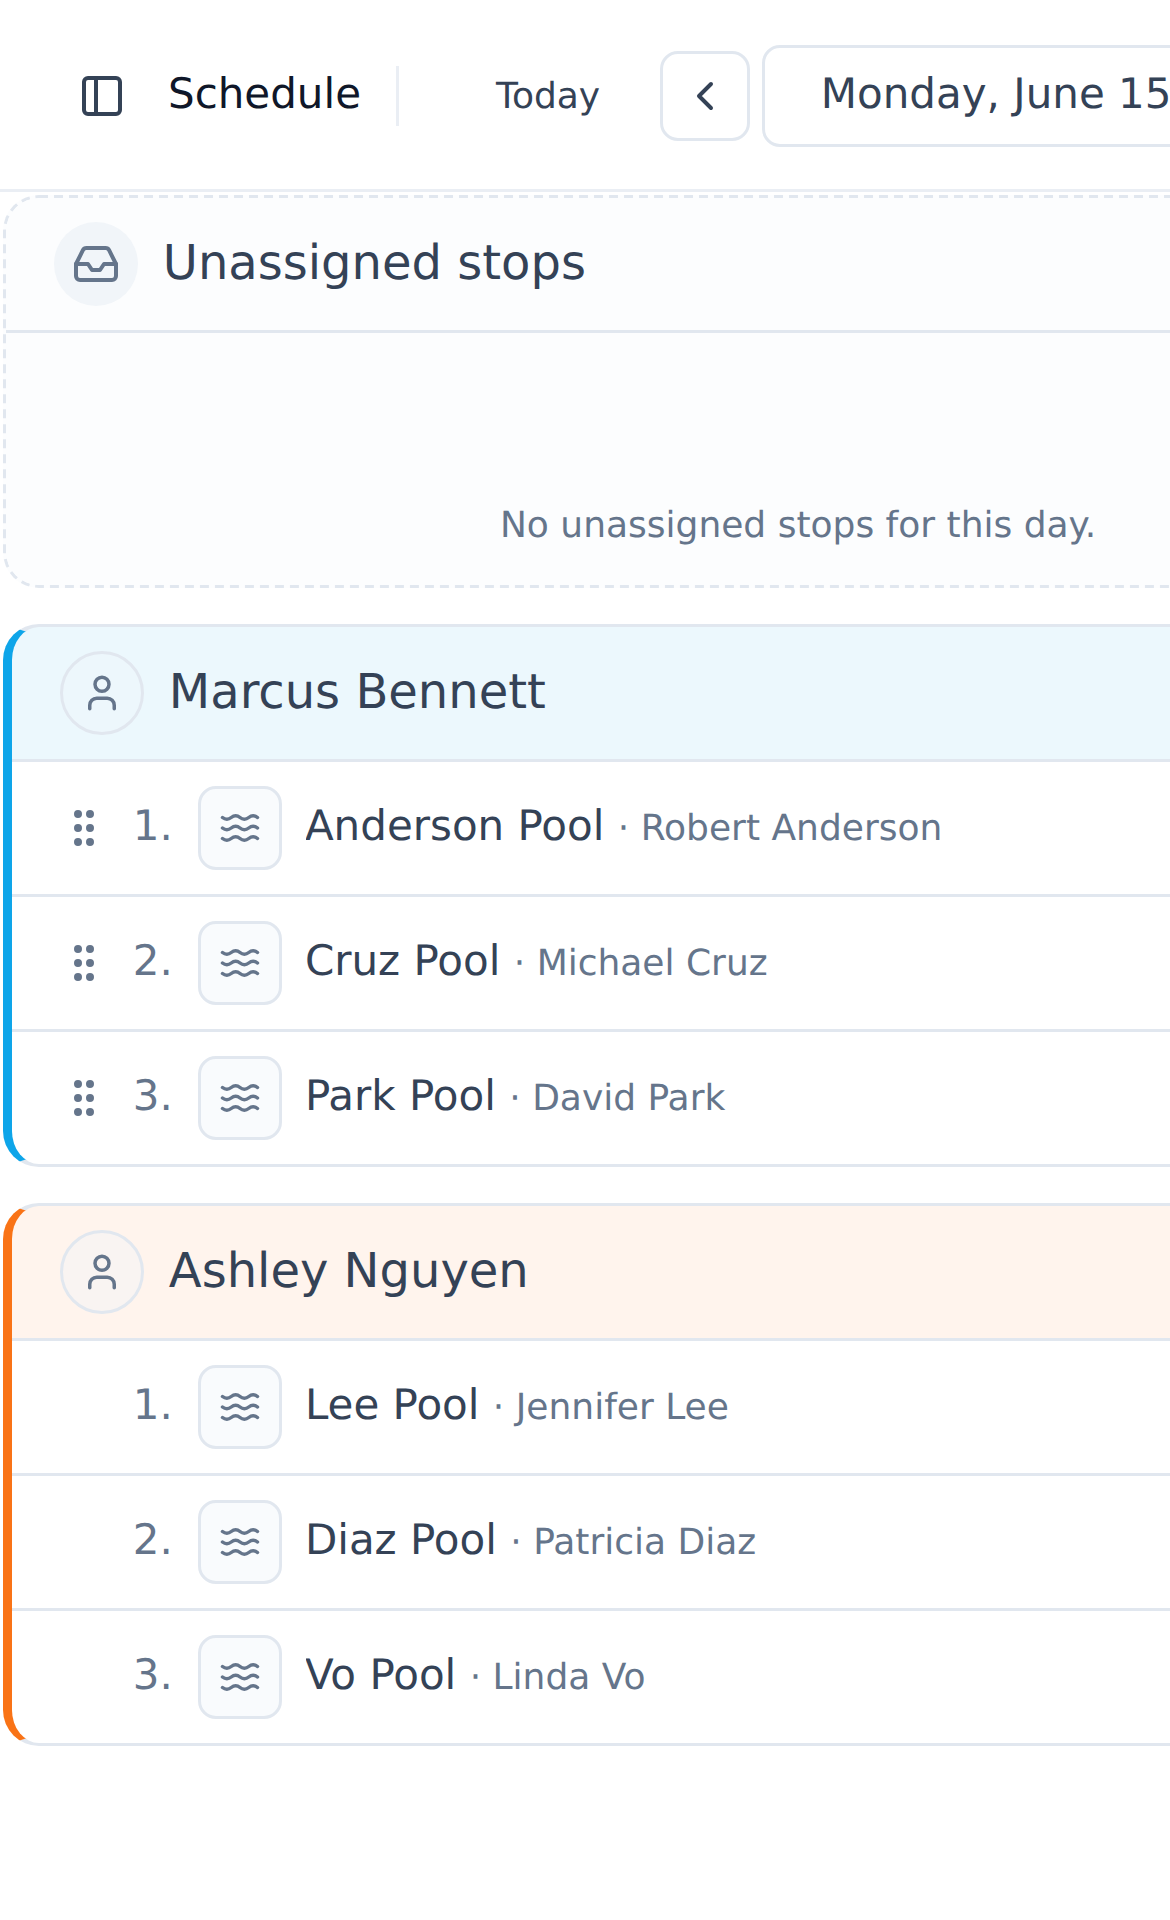
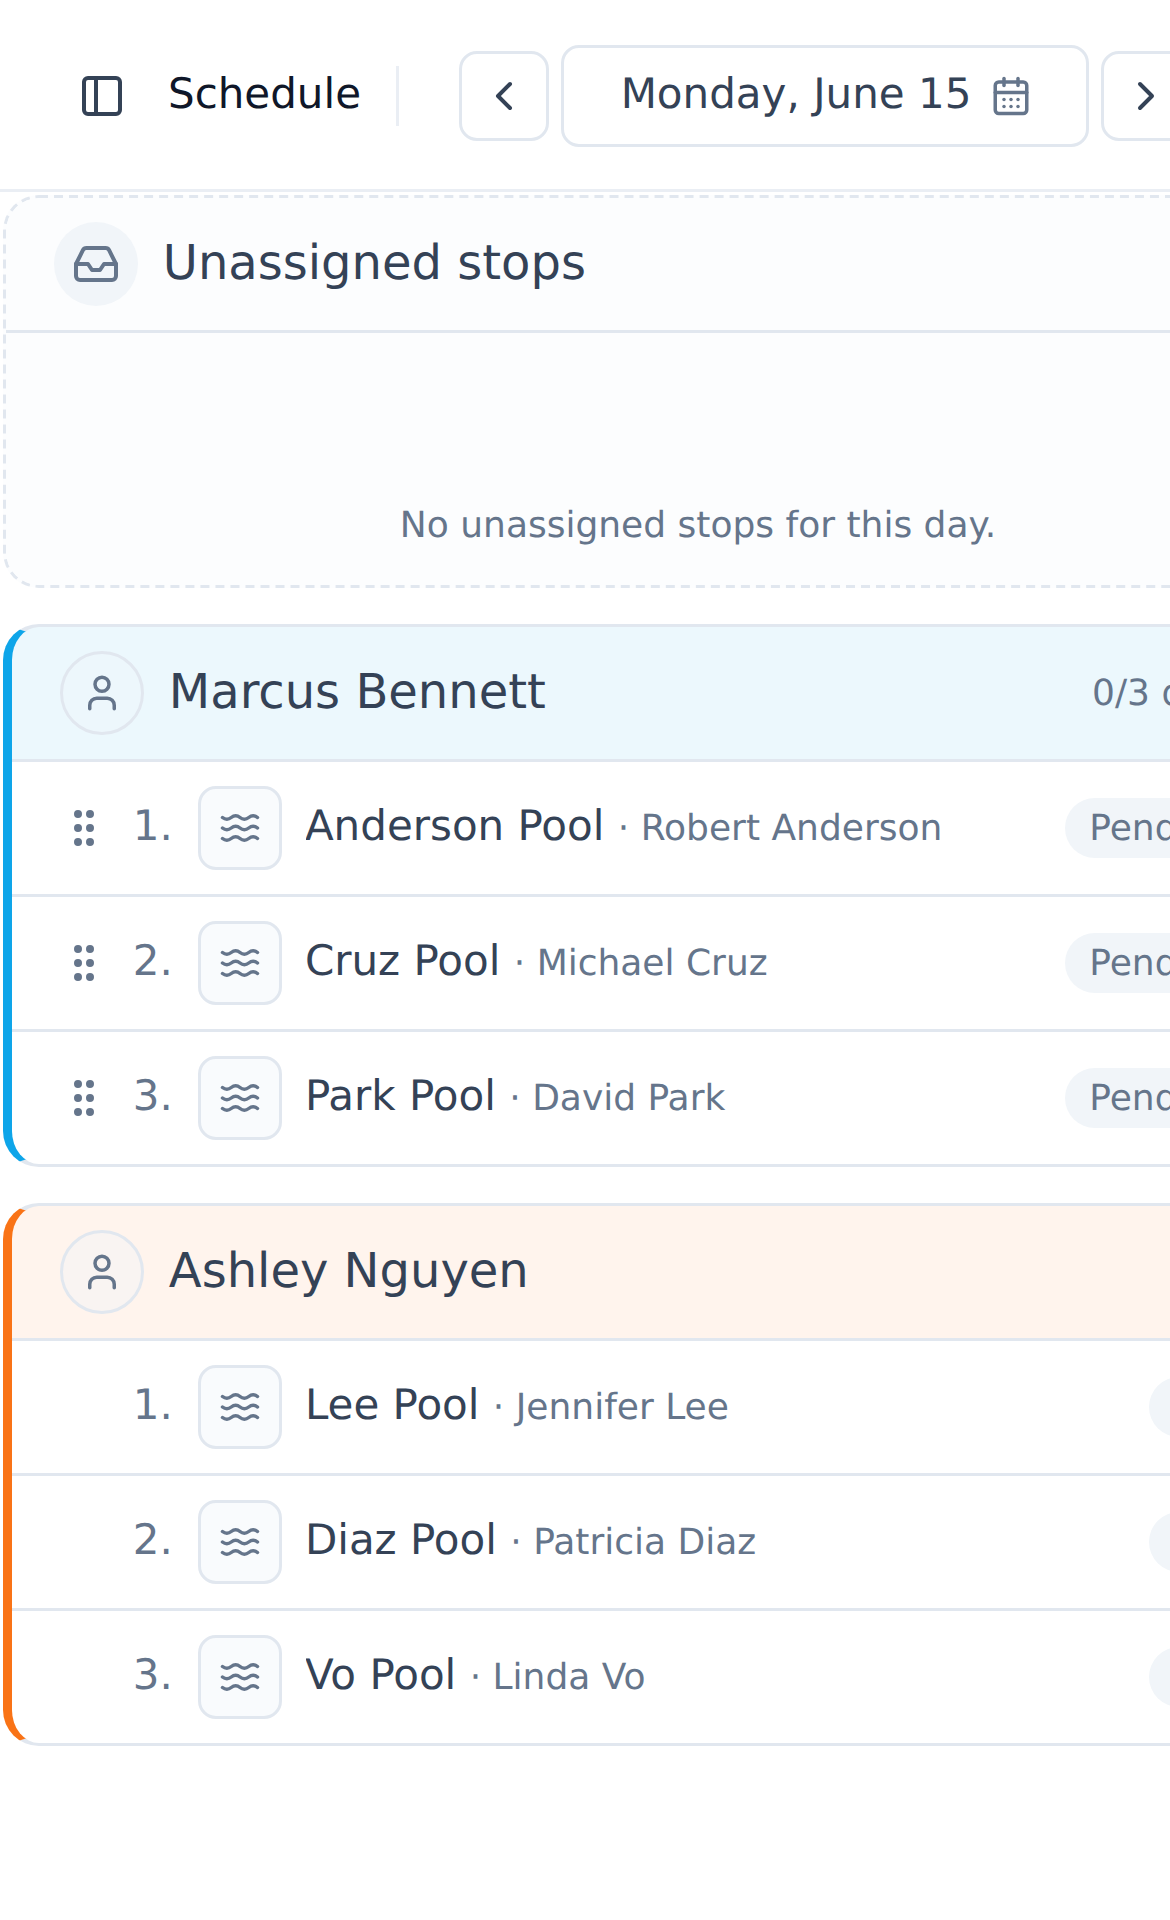
Add repeatable `npm run screenshots` marketing-capture helper
Consolidate the ad-hoc /tmp Playwright capture scripts into one committed,
documented helper (scripts/screenshots.mjs) driven by playwright-core +
system Chrome:

- `npm run screenshots`         — app login-carousel + landing hero
- `npm run screenshots app`     — desktop + phone carousel shots (light/dark)
- `npm run screenshots landing` — demo-tenant landing preview (light/dark)

Captures exactly the assets the marketing surfaces reference (AuthLayout.vue
carousel: dashboard/route-map/reports/pools + phone-day/route/portal; Welcome.vue
hero: demo-landing.jpg), writing in place under public/assets/images/screenshots.
Base URL, schedule date, Chrome path and demo password are env-overridable.

Also regenerates those screenshots against the current UI (widget dashboard,
working route map, Billing nav). scripts/ is eslint-ignored (dev tooling).

diff --git a/eslint.config.js b/eslint.config.js
@@ -7,7 +7,7 @@ export default defineConfigWithVueTs(
     vue.configs['flat/essential'],
     vueTsConfigs.recommended,
     {
-        ignores: ['vendor', 'node_modules', 'public', 'bootstrap/ssr', 'tailwind.config.js', 'resources/js/components/ui/*'],
+        ignores: ['vendor', 'node_modules', 'public', 'bootstrap/ssr', 'scripts', 'tailwind.config.js', 'resources/js/components/ui/*'],
     },
     {
         rules: {
